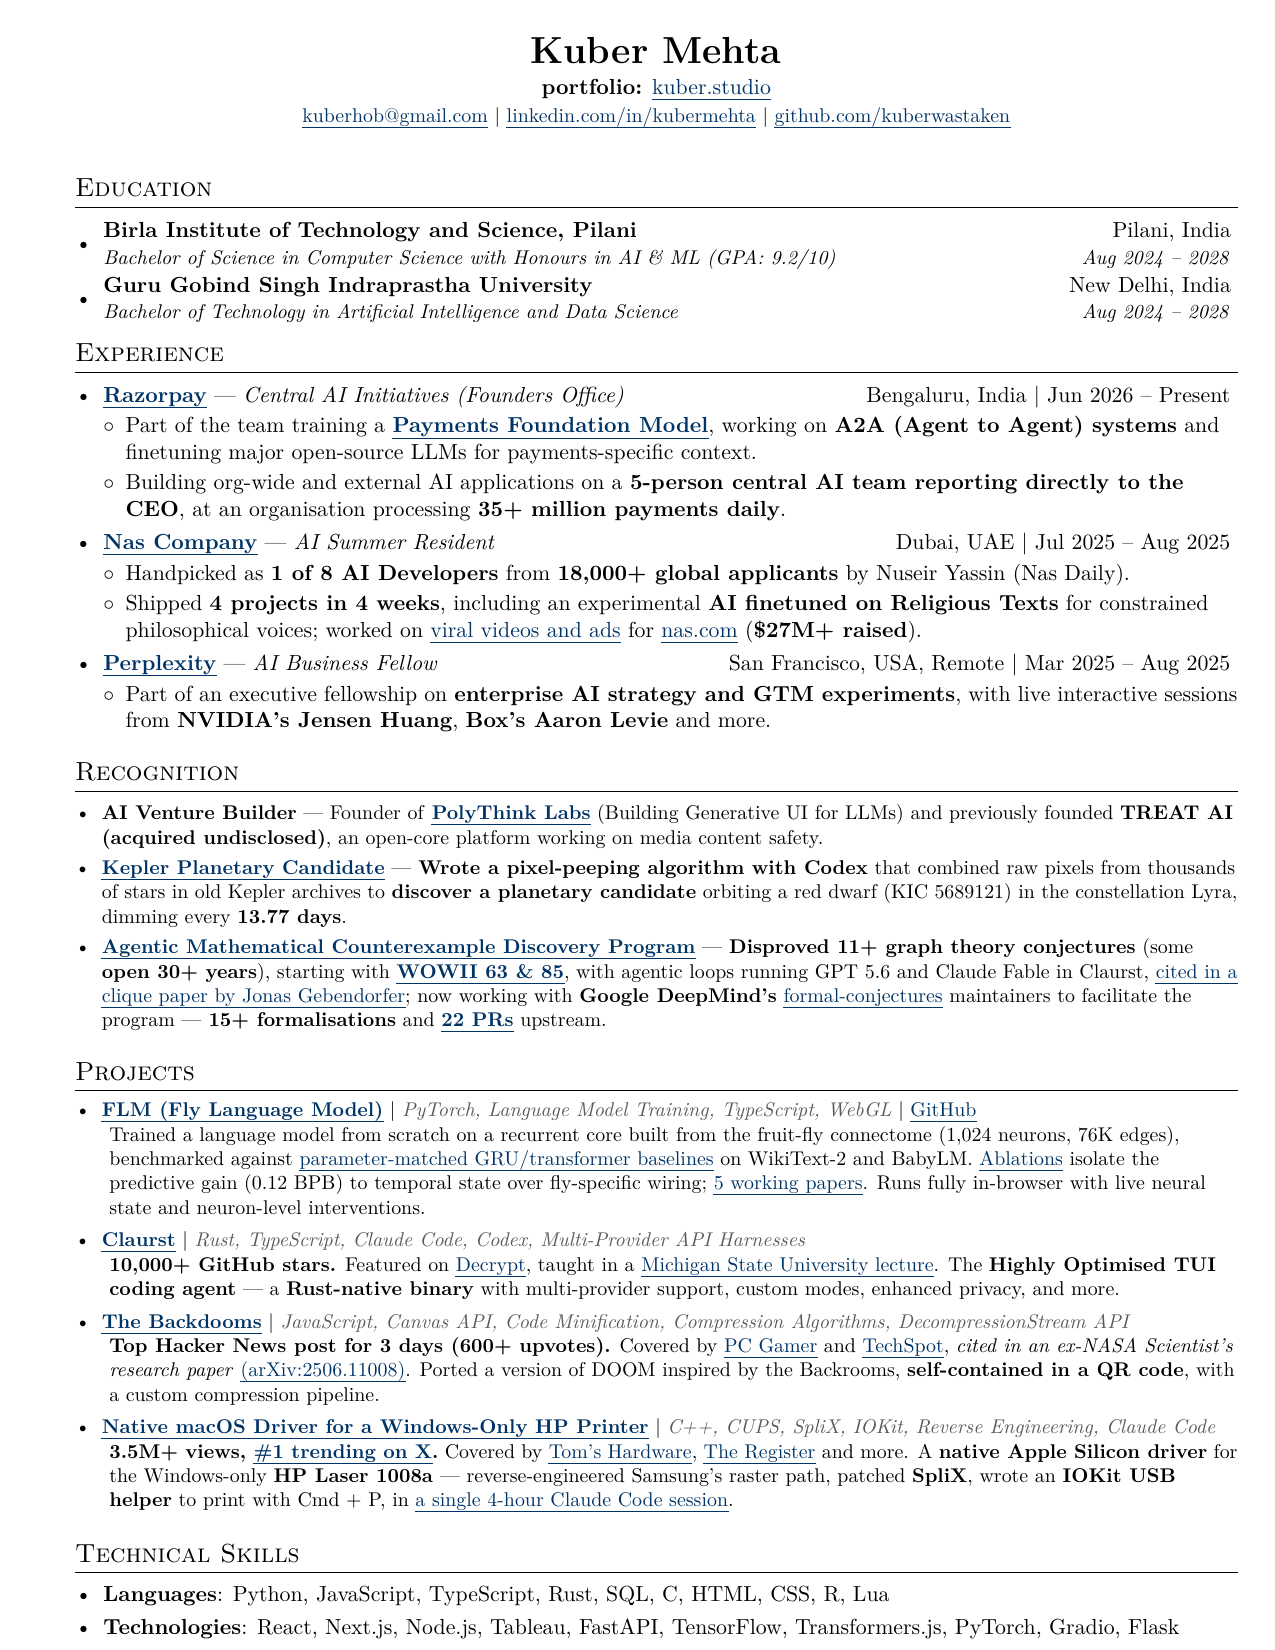
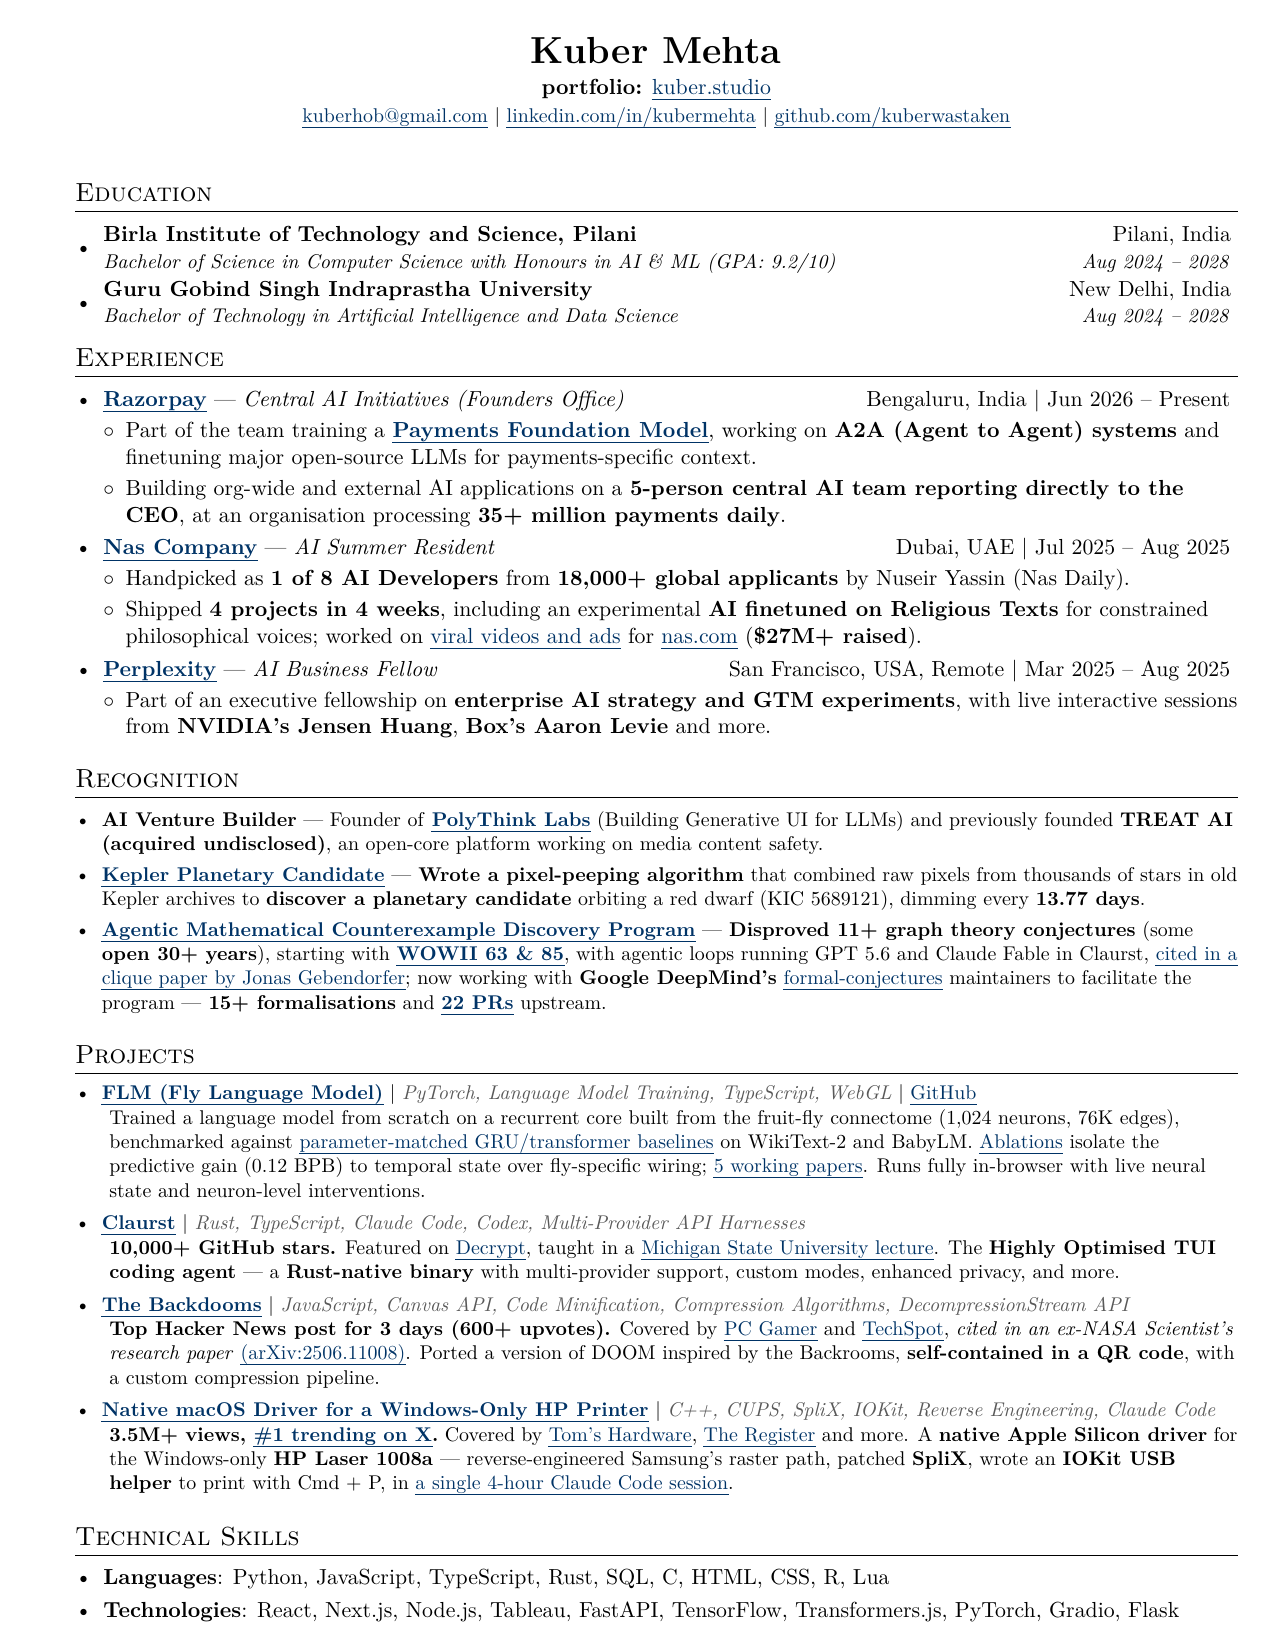
chore: rebuild Resume.pdf and regenerate SEO content [auto]

Changed region(s): [[0.0612, 0.0927, 0.9788, 1.0], [0.6118, 0.1545, 0.6424, 0.1855]]

diff --git a/index.html b/index.html
@@ -82,7 +82,7 @@
         <h2>Recognition</h2>
         <ul>
         <li><strong>AI Venture Builder</strong> — Founder of <strong><a href="https://www.polyth.ink/">PolyThink Labs</a></strong> (Building Generative UI for LLMs) and previously founded <strong>TREAT AI (acquired undisclosed)</strong>, an open-core platform working on media content safety.
-        <li><strong><a href="https://kuber.studio/planethunt/">Kepler Planetary Candidate</a></strong> — <strong>Wrote a pixel-peeping algorithm with Codex</strong> that combined raw pixels from thousands of stars in old Kepler archives to <strong>discover a planetary candidate</strong> orbiting a red dwarf (KIC 5689121) in the constellation Lyra, dimming every <strong>13.77 days</strong>.
+        <li><strong><a href="https://kuber.studio/planethunt/">Kepler Planetary Candidate</a></strong> — <strong>Wrote a pixel-peeping algorithm</strong> that combined raw pixels from thousands of stars in old Kepler archives to <strong>discover a planetary candidate</strong> orbiting a red dwarf (KIC 5689121), dimming every <strong>13.77 days</strong>.
         <li> <strong><a href="https://github.com/Kuberwastaken/c5-k4">Agentic Mathematical Counterexample Discovery Program</a></strong> — <strong>Disproved 11+ graph theory conjectures</strong> (some <strong>open 30+ years</strong>), starting with <strong><a href="https://github.com/google-deepmind/formal-conjectures/pull/4592">WOWII 63 &amp; 85</a></strong>, with agentic loops running GPT 5.6 and Claude Fable in Claurst, <a href="https://www.researchgate.net/publication/411040212_Clique_Blow-ups_of_the_5-Cycle_and_Written_on_the_Wall_II_Conjecture_64">cited in a clique paper by Jonas Gebendorfer</a>; now working with <strong>Google DeepMind's</strong> <a href="https://github.com/google-deepmind/formal-conjectures">formal-conjectures</a> maintainers to facilitate the program — <strong>15+ formalisations</strong> and <strong><a href="https://github.com/google-deepmind/formal-conjectures/pulls?q=is:pr+author:Kuberwastaken">22 PRs</a></strong> upstream.
         </ul>
         <h2>Projects</h2>
